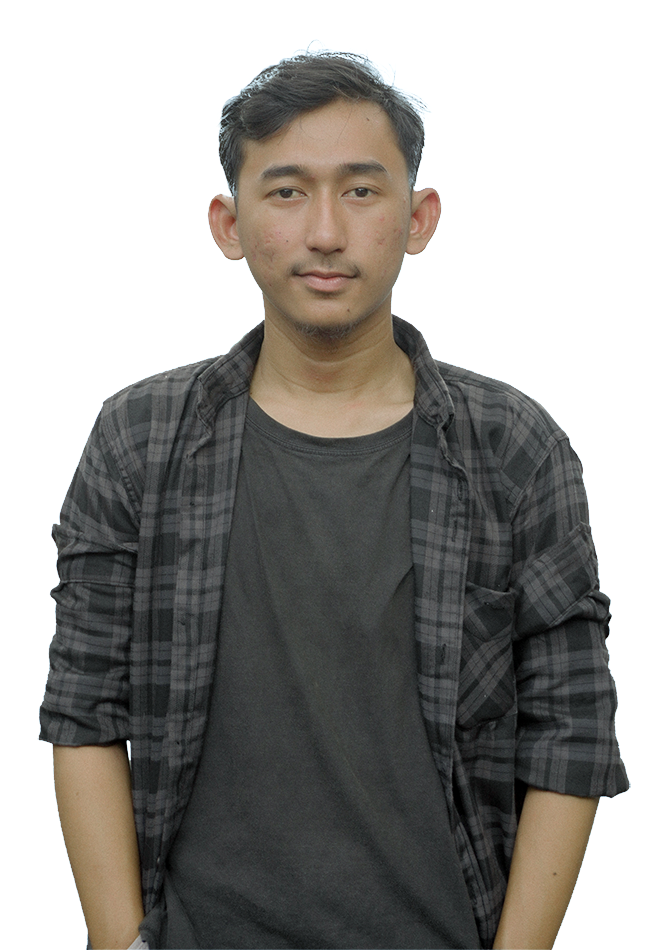
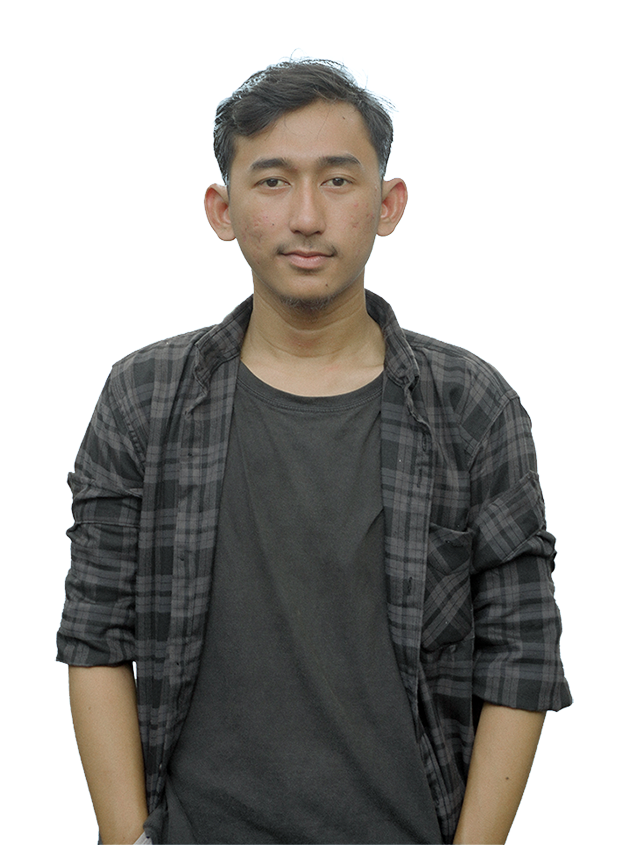
fixing: hero

Changed region(s): [[0.0602, 0.0308, 0.9635, 1.0]]

diff --git a/src/components/Hero.jsx b/src/components/Hero.jsx
@@ -3,7 +3,7 @@ import Header from "./Header";
 
 const Hero = () => {
     return (
-       <section id="home" className="pt-28 lg:pt-36">
+       <section id="home" className="pt-28 lg:pt-16">
         <div className="container items-center lg:grid lg:grid-cols-2 lg:gap-10">
             <div>
                 <div className="flex items-center gap-3">
@@ -45,11 +45,9 @@ const Hero = () => {
             </div>
 
             <div className="hidden lg:block">
-                <figure className="w-full max-w-[480px] ml-auto bg-gradient-to-t from-sky-400 via-25% via-sky-400/40 to-65% rounded-[60px] overflow-hidden">
+                <figure className="w-full max-w-[440px] ml-auto bg-gradient-to-t from-sky-400 via-25% via-sky-400/40 to-75% rounded-[60px] overflow-hidden scale-90">
                     <img 
-                        src="/images/hero-banner.png" 
-                        width={659} 
-                        height={800} 
+                        src="/images/hero-banner.png"
                         alt="kamal" 
                         className="w-full"/>
                 </figure>

diff --git a/src/components/Work.jsx b/src/components/Work.jsx
@@ -17,7 +17,7 @@ const works = [
       imgSrc: '/images/project-3.jpg',
       title: 'Chill app',
       tags: ['Development', 'API'],
-      projectLink: 'https://chill-app-react.vercel.app/'
+      projectLink: 'https://chill-client.vercel.app/'
     }
   ];
 
